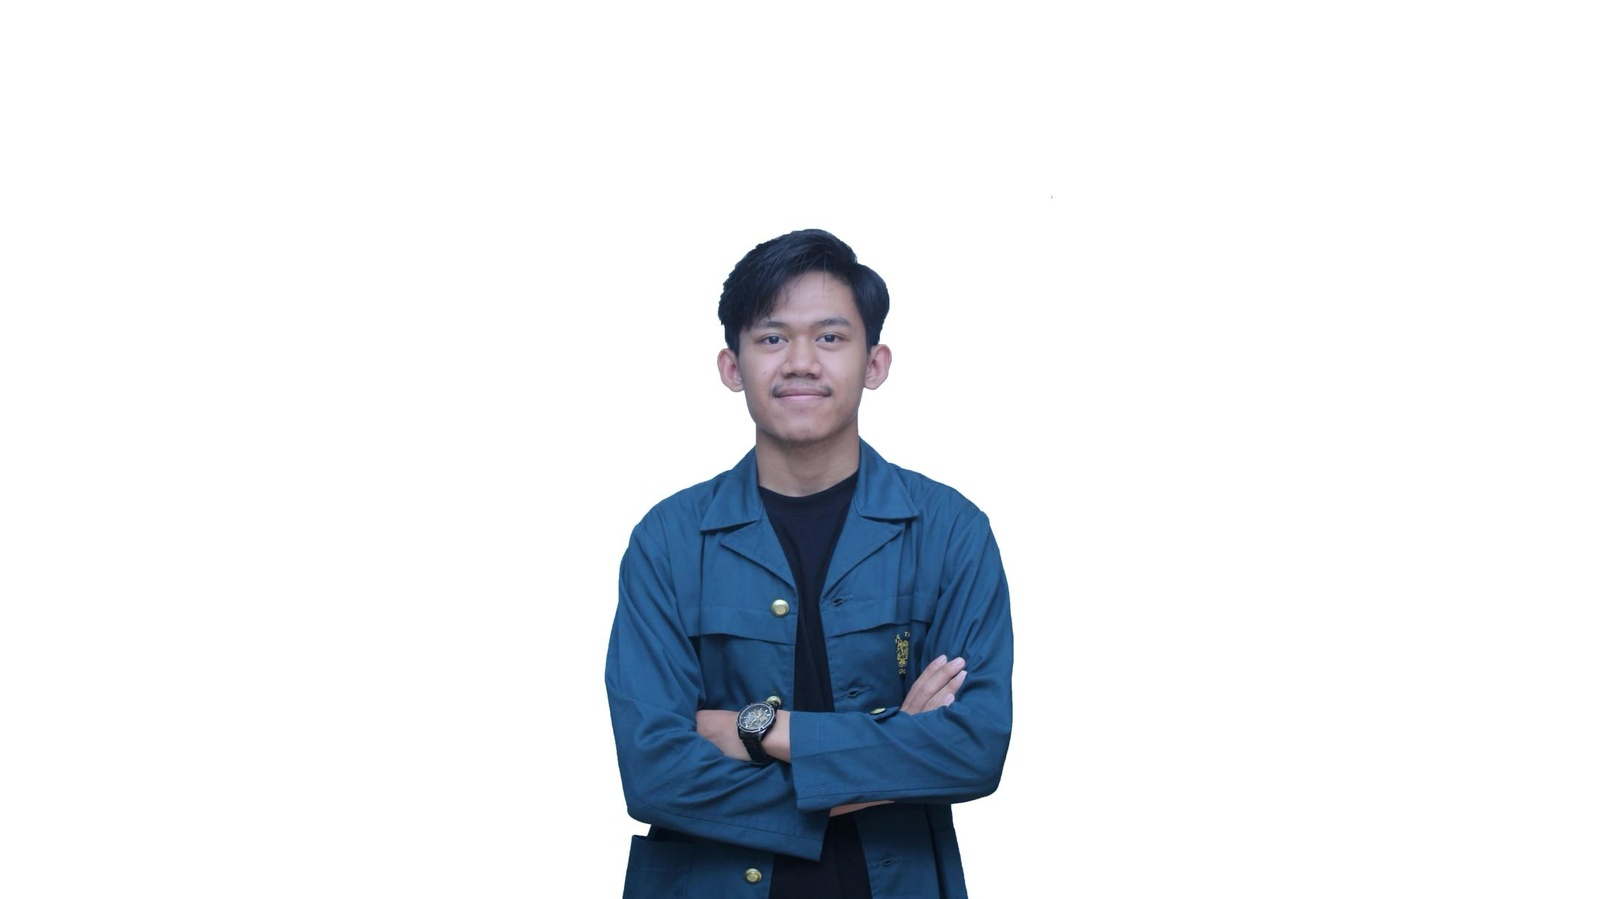
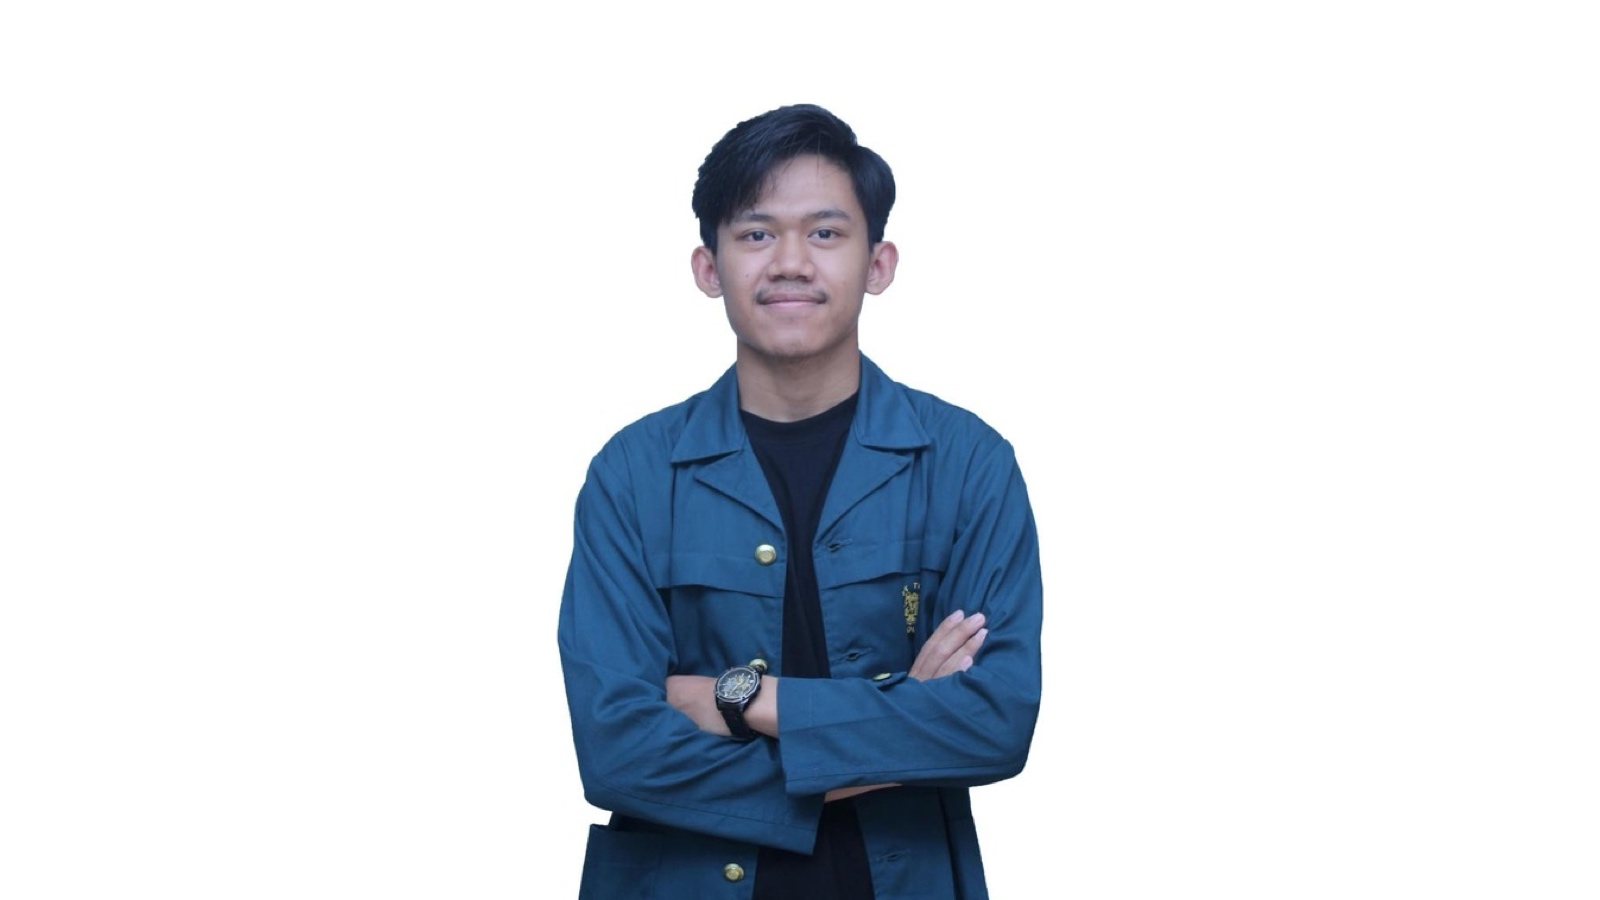
style: match Ilham photo height with Shizuka and update major to Teknik Metalurgi

Changed region(s): [[0.3371, 0.0934, 0.6742, 1.0]]

diff --git a/src/app/team/page.tsx b/src/app/team/page.tsx
@@ -21,7 +21,7 @@ export default function TeamPage() {
             name: "Muhammad Ilham Saripul Milah",
             role: "Lead Researcher & Full-Stack Developer",
             uni: "Institut Teknologi Bandung (ITB)",
-            major: "Metallurgical Engineering - FTTM",
+            major: "Teknik Metalurgi",
             img: assetPath("/assets/pp_ilham_team.jpg"),
         },
         {
